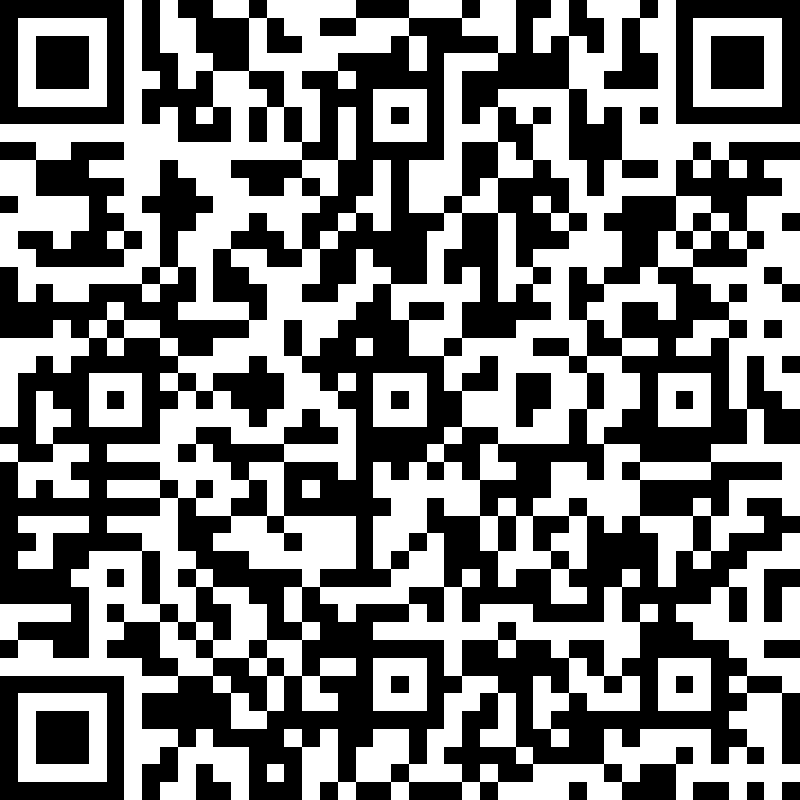
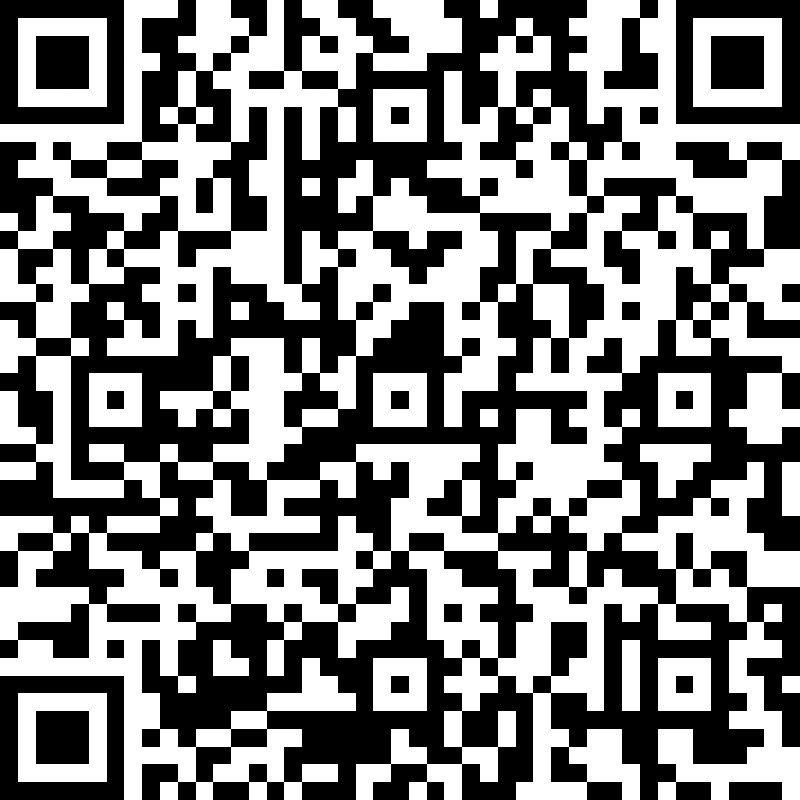
Update slides for 2022

diff --git a/exercise-sessions/00/latex/master.tex b/exercise-sessions/00/latex/master.tex
@@ -10,9 +10,9 @@
 \author{Oleks Shturmov\\[-0.2em]%
   {\footnotesize \texttt{<olekss@uio.no>} / \texttt{<oleks@oleks.info>}}
 }
-\date{January 20, 2021\\[2em]
+\date{January 25, 2022\\[2em]
 {\scriptsize The source code for these slides is maintained here: \\[-0.5em] {\tiny%
-\url{https://github.com/emerald/in5570v21/tree/master/exercise-sessions/00}}%
+\url{https://github.com/emerald/in5570v22/tree/master/exercise-sessions/00}}%
 }}
 
 \usepackage[normalem]{ulem}%\sout

diff --git a/exercise-sessions/00/latex/survey.tex b/exercise-sessions/00/latex/survey.tex
@@ -17,8 +17,7 @@ by scanning the QR code, or clicking the link below.
 
 \vspace{\fill}
 
-\noindent\scriptsize{\url{https://forms.office.com/Pages/ResponsePage.aspx?id=EWg7RqSwKku5MnLEyXDF0jX8fpCu28JLoOqRVD4wrQRUN0lMTFBCRVRaNk5BWVMyWlUwS1ZVMUlLWC4u}}
-
+\noindent\scriptsize{\url{https://forms.office.com/Pages/ResponsePage.aspx?id=EWg7RqSwKku5MnLEyXDF0jX8fpCu28JLoOqRVD4wrQRUREhLM1FQS09QRTRSR0o1QzRIRlJBVzJPRC4u}}
 
 \end{center}
 

diff --git a/exercise-sessions/00/latex/some-bits-about-me.tex b/exercise-sessions/00/latex/some-bits-about-me.tex
@@ -30,7 +30,7 @@
 
 \item Started on a PhD under Eric in December 2017
 
-\item Topic: Programming Heterogeneous, Distributed Systems
+\item Topic: Mobility-Oriented Programming
 
 \end{itemize}
 
